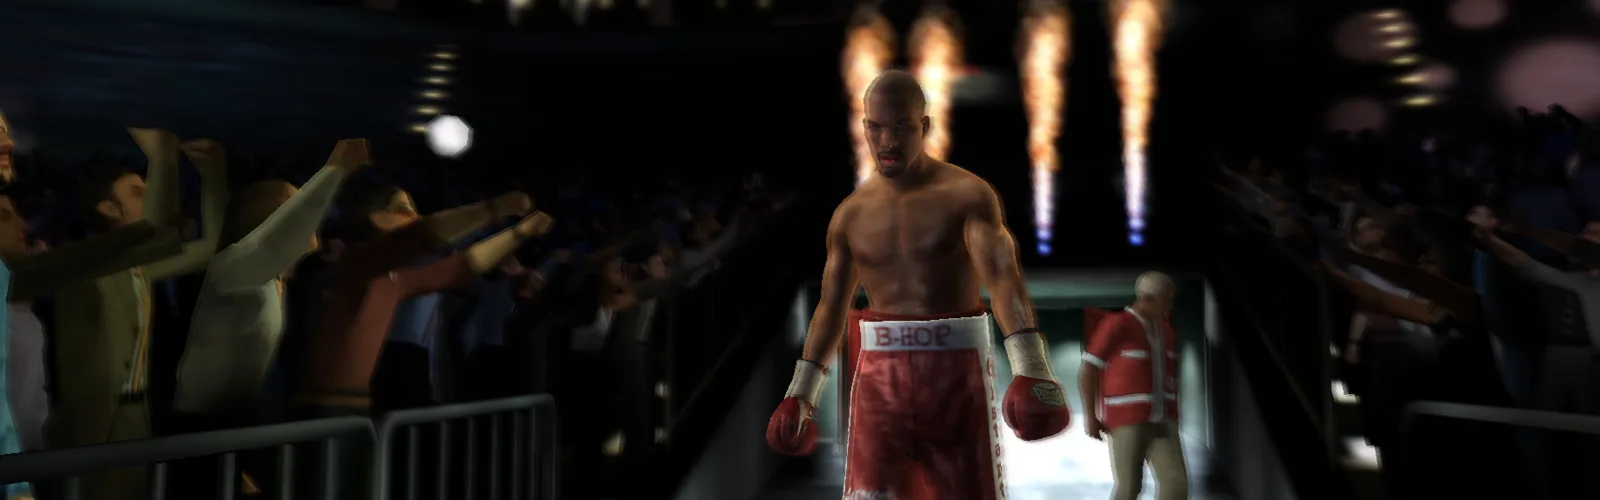
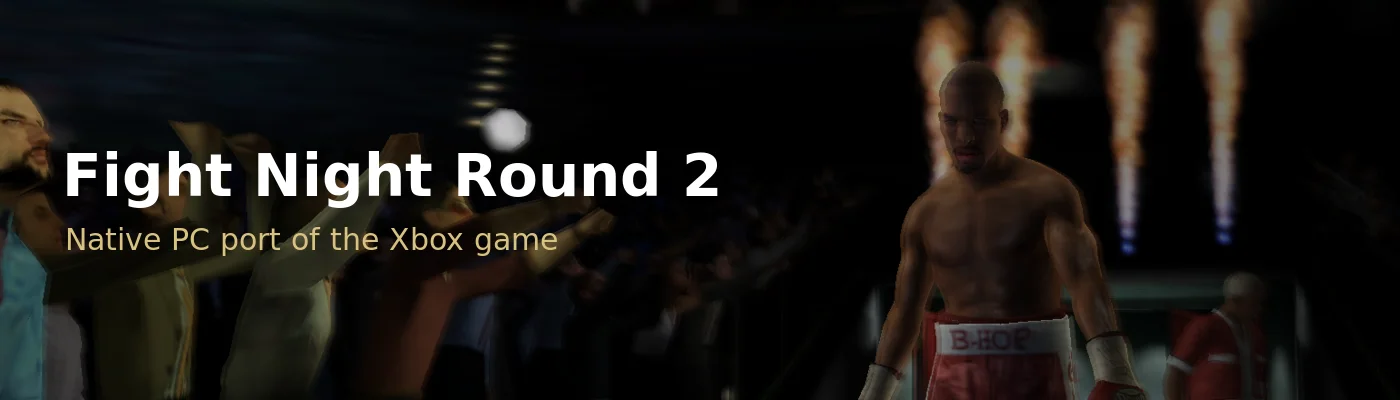
README: a titled header image, as Agent Under Fire's

diff --git a/PROGRESS.md b/PROGRESS.md
@@ -19,6 +19,12 @@ Newest first. Each entry: date, what changed, what was learned, what's next.
 
 ## Log
 
+### 2026-11-25 - README header titled, as Agent Under Fire's
+
+Harry: the header image in Agent Under Fire's style. docs/img/fightnight2-banner.webp is now 1400x400 (AUF's size): the
+walk-out, darkened towards the left, "Fight Night Round 2" in DejaVu Sans Bold 58 and "Native PC port of the Xbox game"
+in DejaVu Sans 30, gold #d8c281, at AUF's places (measured from its banner). .local/gpuvm/readme/title.sh makes it.
+
 ### 2026-11-25 - v1.0 tagged (a draft release)
 
 Harry tested the packaged launcher (C:\Testing\fn2-launcher-test: the disc, Get the game ready, Play) and asked for the

diff --git a/README.md b/README.md
@@ -1,5 +1,5 @@
 <p align="center">
-  <img src="docs/img/fightnight2-banner.webp" alt="Fight Night Round 2, native PC port: Bernard Hopkins walking out to the ring under the pyrotechnics" width="100%">
+  <img src="docs/img/fightnight2-banner.webp" alt="Fight Night Round 2, native PC port of the Xbox game: Bernard Hopkins walking out to the ring under the pyrotechnics" width="100%">
 </p>
 
 <p align="center">
